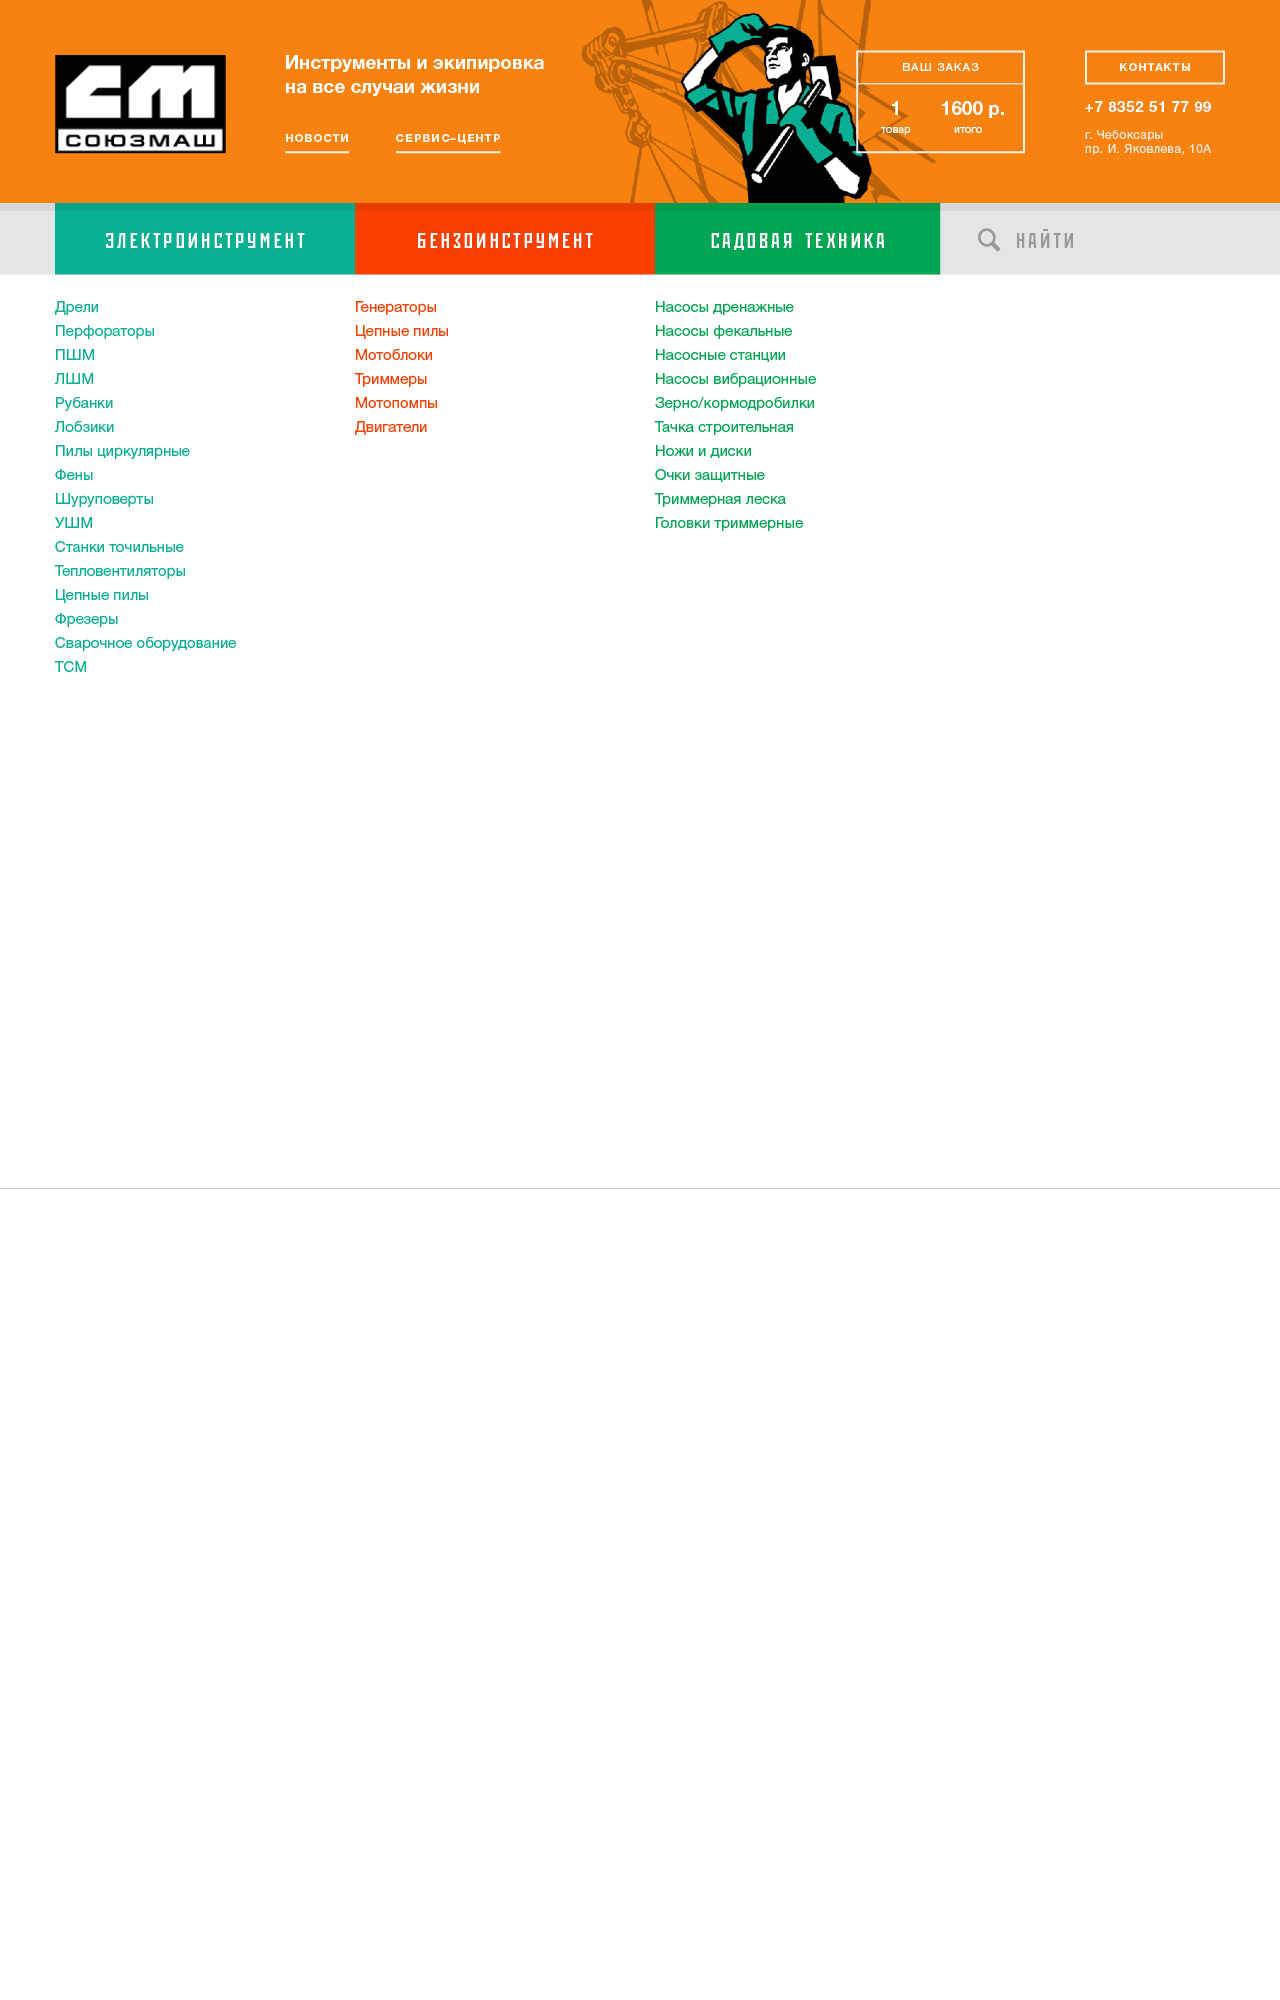
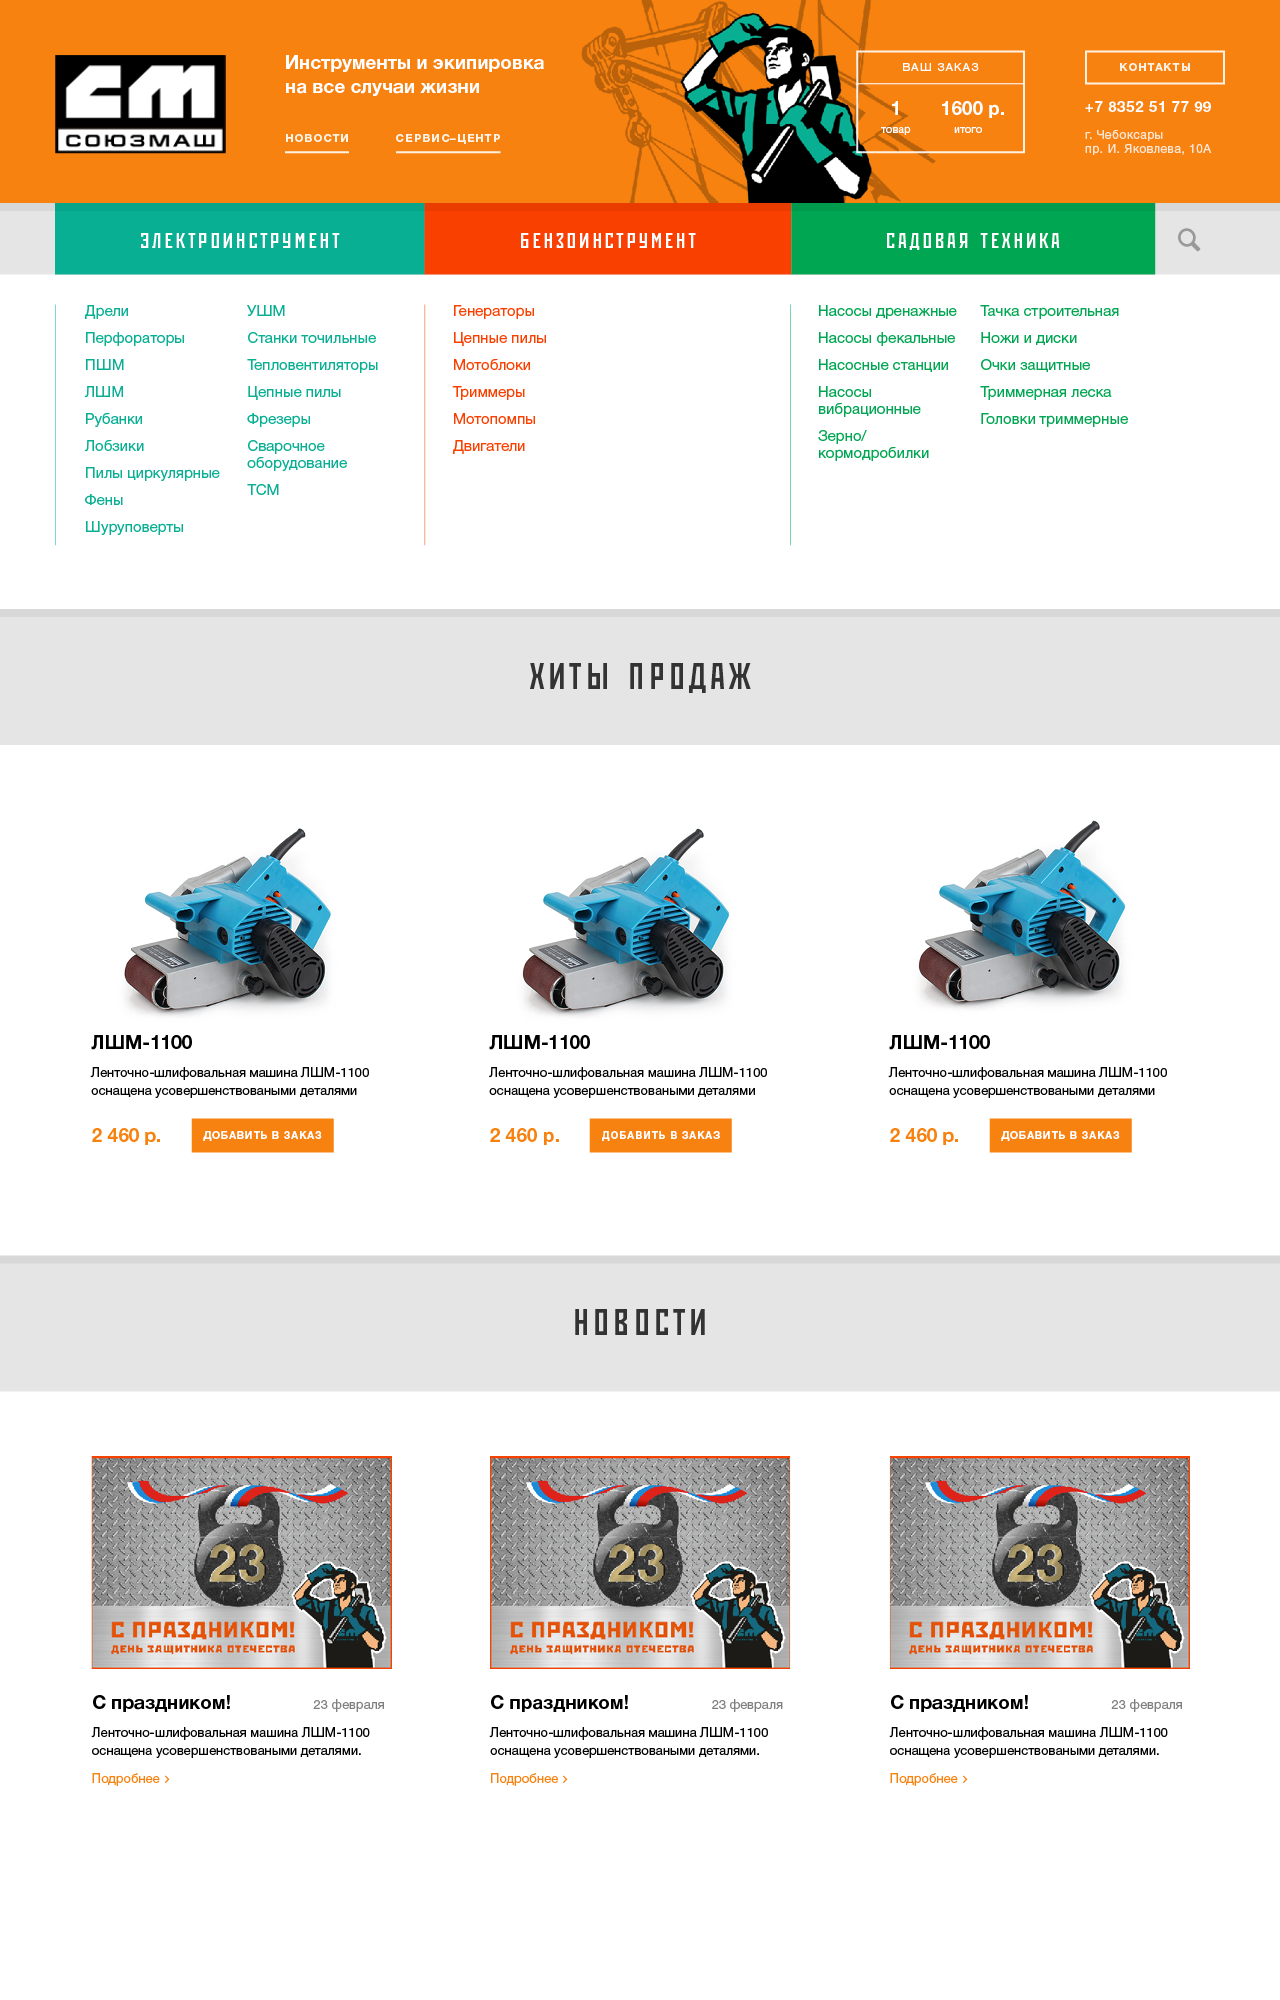
"Automated commit at 2014-03-04 06:40:25 UTC by middleman-deploy 0.1.4"

diff --git a/soyuzmash_design_mobile_.html b/soyuzmash_design_mobile_.html
@@ -11,7 +11,7 @@
     <link href='./stylesheets/application.css' media='screen' rel='stylesheet' type='text/css'>
   </head>
   <body class='page'>
-    <a class='application-window clickable' href='soyuzmash_design_mobile_.html' role='design-demo-image' style='background-image: url("images/demo/soyuzmash_design_desktop_v2_3.png")'></a>
+    <a class='application-window clickable' href='soyuzmash_design_desktop_v2_.html' role='design-demo-image' style='background-image: url("images/demo/soyuzmash_design_mobile_.png")'></a>
   </body>
 </html>
 <script src="/javascripts/application.js?1393587050" type="text/javascript"></script>

diff --git a/index.html b/index.html
@@ -30,6 +30,12 @@
         </a>
     
       </div>
+      <div class='index-preview col-xs-6 col-sm-3'>
+            <a href="soyuzmash_design_mobile_.html"><img src='.//images/demo/soyuzmash_design_mobile_.png'>
+        <br>
+        </a>
+    
+      </div>
     </div>
     <hr>
     <div class='btn-group btn-group-vertical btn-block'>
